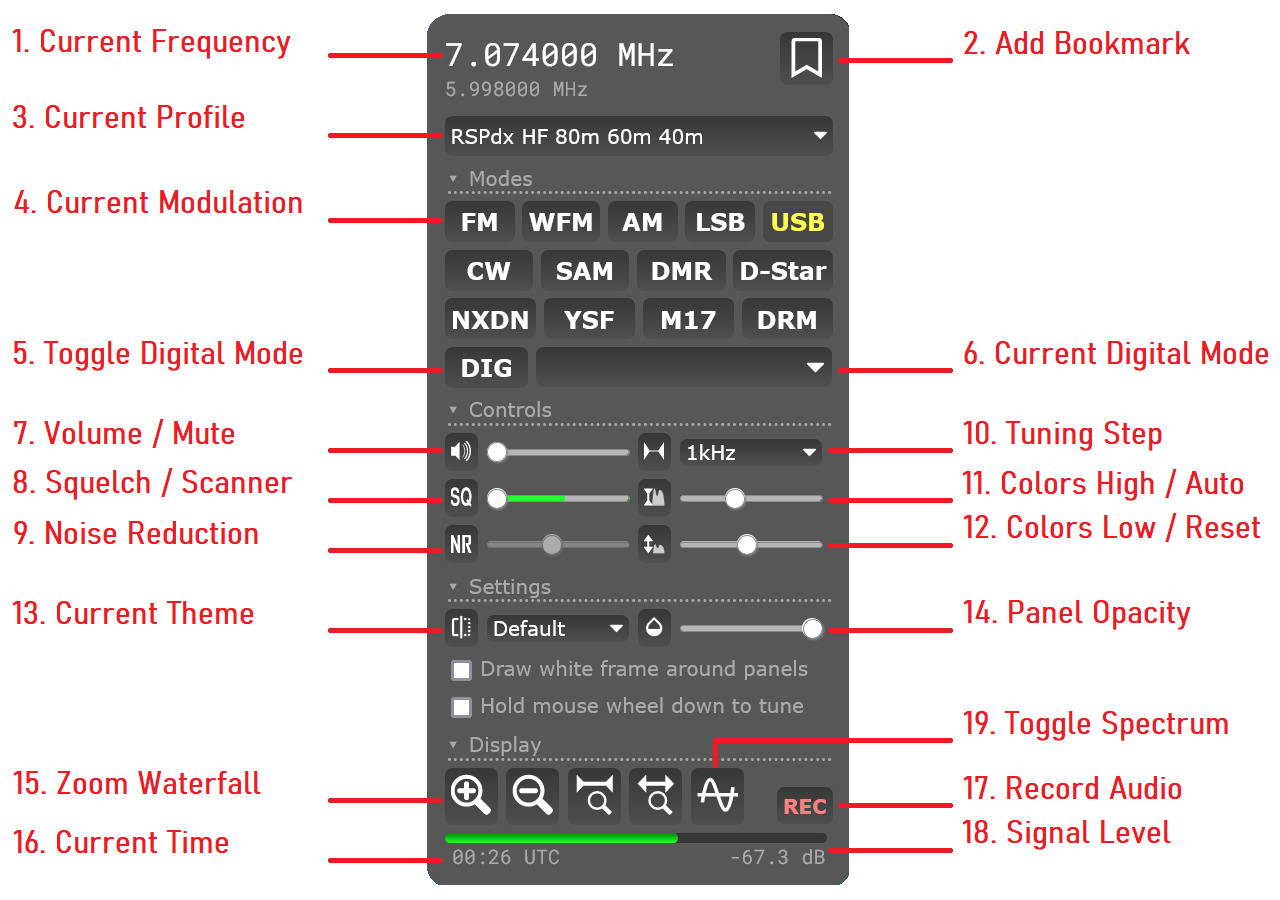
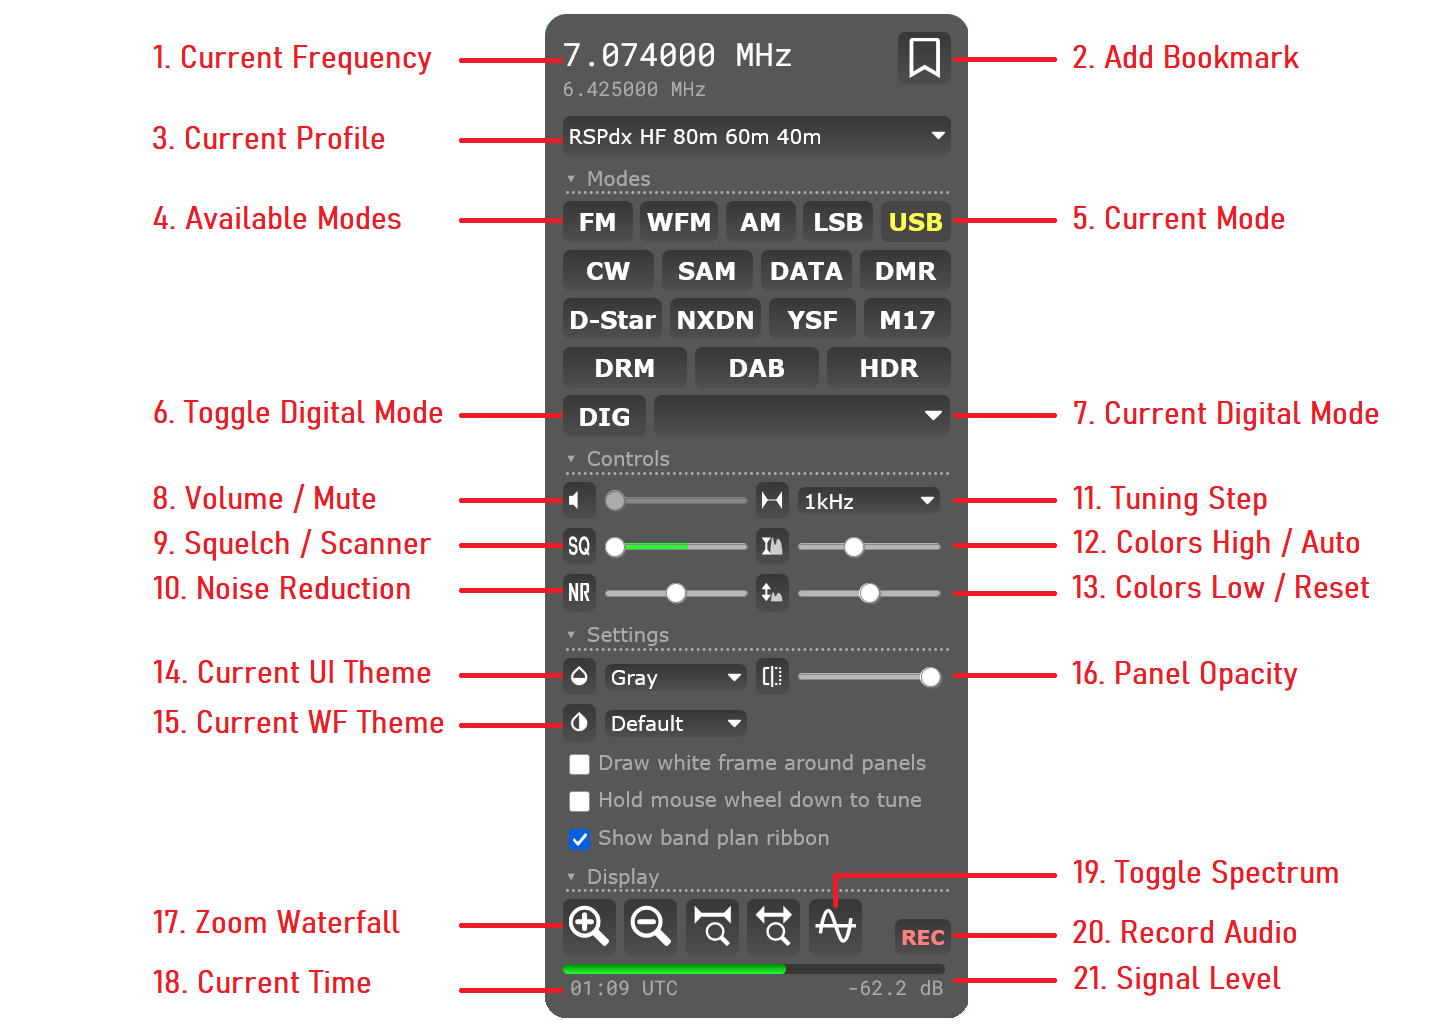
Updating control panel documentation.

Changed region(s): [[0.0, 0.0, 1.0, 0.9956]]

diff --git a/index.html b/index.html
@@ -448,13 +448,16 @@ considerate when you see somebody else using the server.
 </P>
 
 <LI><P>
-This is the list of all available <B>audio modulation modes</B>, with 
-the current mode highlighted in yellow. Select a new mode by clicking 
-corresponding button, but keep in mind that not all modes can be 
-applicable. It helps to know what each modulation looks like on the 
-waterfall. Consult the
+This is the list of all available <B>audio modulation modes</B>. Select 
+the new mode by clicking the corresponding button, but keep in mind that 
+not all modes can be applicable. It helps to know what each modulation 
+looks like on the waterfall. Consult the
 <A HREF="https://www.sigidwiki.com/wiki/Signal_Identification_Guide">Signal Identification Guide</A>
 if unsure.
+</P>
+
+<LI><P>
+This is the <B>current audio modulation mode</B>, highlighted in yellow.
 </P>
 
 <LI><P>
@@ -538,6 +541,12 @@ default theme.
 </P>
 
 <LI><P>
+This drop-down list lets you choose one of the <B>waterfall color 
+themes</B>. Clicking the adjacent button resets waterfall to the 
+default theme.
+</P>
+
+<LI><P>
 This slider controls the <B>user interface opacity</B>, making panels 
 more or less visible on top of the waterfall. Click the adjacent button 
 to reset user interface to the full opacity.
@@ -556,6 +565,12 @@ operates in UTC, so this clock is shown for easier reference.
 </P>
 
 <LI><P>
+This button toggles the <B>live spectrum display</B> above the 
+waterfall. When using it, keep in mind that the spectrum display may 
+make your web browser use a lot of processor power.
+</P>
+
+<LI><P>
 Click the <SPAN CLASS="Button">REC</SPAN> button to start <B>recording 
 audio</B> at any moment. The button will glow red, indicating ongoing 
 recording. Once you click the <SPAN CLASS="Button">REC</SPAN> button 
@@ -566,12 +581,6 @@ again, it will stop recording and save the recorded audio to a file.
 The bar at the bottom indicates the <B>current signal level</B>. It will 
 change color based on what OpenWebRX considers signal overload. There is 
 also a numeric readout, showing the exact value in decibels.
-</P>
-
-<LI><P>
-This button toggles the <B>live spectrum display</B> above the 
-waterfall. When using it, keep in mind that the spectrum display may 
-make your web browser use a lot of processor power.
 </P>
 
 </OL>
@@ -1010,14 +1019,13 @@ dahs) when decoding CW"</I> option.
 </P>
 <P>
 Finally, OpenWebRX+ can attempt <B>decoding all CW transmissions in 
-24kHz of spectrum</B>, at once, in real time, and present them to you in 
+48kHz of spectrum</B>, at once, in real time, and present them to you in 
 a table, sorted by frequency. This functionality is enabled by selecting 
-the
-<I>"CW Skimmer"</I> digital mode.
+the <I>"CW Skimmer"</I> digital mode.
 </P>
 <P CLASS="Admin">
 CW skimmer support requires installing the
-<A HREF="https://github.com/luarvique/csdr-cwskimmer">CSDR CWSkimmer</A>
+<A HREF="https://github.com/luarvique/csdr-skimmer">CSDR Skimmer</A>
 package. Please, refer to <I>"Settings | Feature Report"</I> for further
 instructions.
 </P>
@@ -1079,6 +1087,18 @@ with a zoomed secondary waterfall that may contain multiple RTTY
 signals. Once you click on an RTTY signal you are interested in, the 
 decoded text will show up below the secondary waterfall, with 
 unrecognized characters shown as underscores.
+</P>
+<P>
+OpenWebRX+ can also attempt <B>decoding all RTTY-170 transmissions in
+48kHz of spectrum</B>, at once, in real time, and present them to you in
+a table, sorted by frequency. This functionality is enabled by selecting
+the <I>"RTTY Skimmer"</I> digital mode.
+</P>
+<P CLASS="Admin">
+RTTY skimmer support requires installing the
+<A HREF="https://github.com/luarvique/csdr-skimmer">CSDR Skimmer</A>
+package. Please, refer to <I>"Settings | Feature Report"</I> for further
+instructions.
 </P>
 
 <A NAME="HOW-SSTV"><H3 CLASS="Section">Receiving SSTV Images</H3></A>
